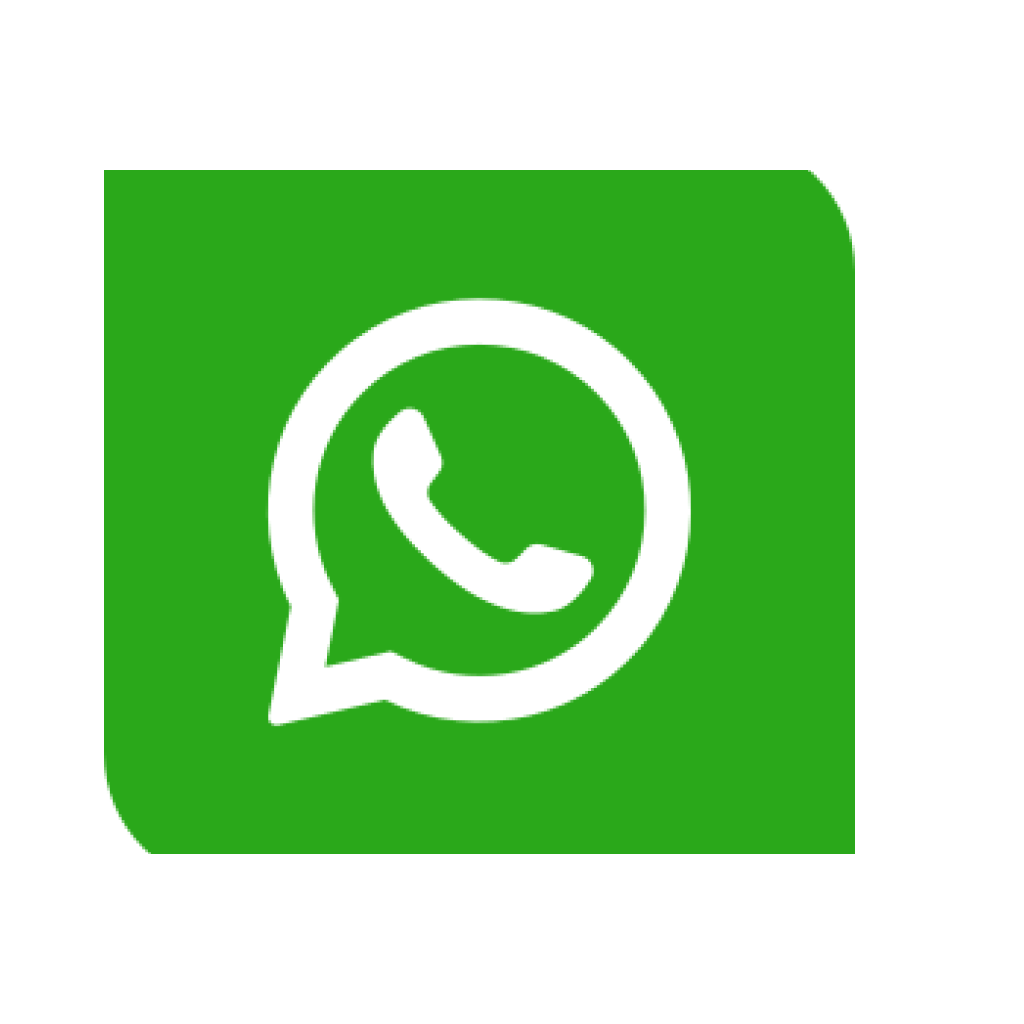
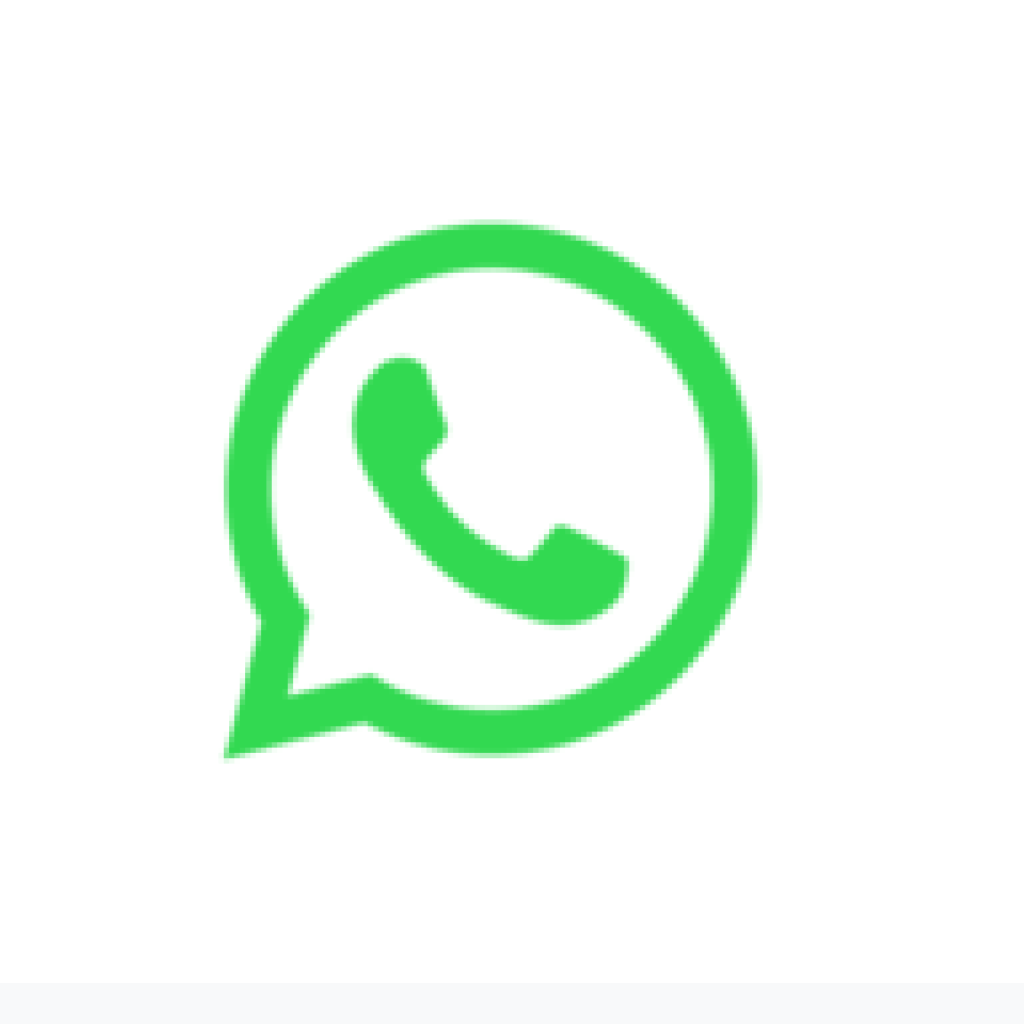
make changes and create imagespath constants and UI

diff --git a/src/app/(auth)/index.jsx b/src/app/(auth)/index.jsx
@@ -1,13 +1,98 @@
-import { View, Text } from 'react-native'
-import React from 'react'
-import { Link } from 'expo-router'
+import { StyleSheet, View, Text, Image, ActivityIndicator } from "react-native";
+import React, { useEffect, useState } from "react";
+import { SafeAreaView } from "react-native-safe-area-context";
+import imagesPath from "../../constants/imagesPath";
+import {  verticalScale, moderateScale } from "react-native-size-matters";
+import { router } from "expo-router";
 
 const Auth = () => {
+  const[isloading  , setIsloading] = useState(false)
+  // now we are making logic that the first it will be displayed for the 2 seconds and then the loading screen will be appear after that  
+  let navigate_to_welcomeScreen =() =>{
+    router.push("/(auth)/terms_agree")
+  }
+  useEffect(()=>{
+    // ab yeh k 2 seconds k baad loading wala screen a jaeyga 
+    setTimeout(() => {
+      setIsloading(true)
+      setTimeout(()=>{
+        navigate_to_welcomeScreen()
+      },3000)
+    }, 2000);
+  })
   return (
-    <View>
-     <Link href={"/login"}>Login</Link>
-    </View>
-  )
-}
+    // Safe Area View Gave a padding from the top to the Bottom
+    <SafeAreaView style={styles.container}>
+      <View style={styles.header}></View>
+      <View style={styles.body}>
+        <Image
+          source={imagesPath.logo}
+          style={styles.image_style}
+          resizeMode="contain"
+        />
+        <Text style={styles.whatsapp_text}>Whatsapp</Text>
+      </View>
+      <View style={styles.footer}>
+        {/* In this we use the loading screen effect for the two seconds:: */}
+        {
+          isloading ? (
+            <>
+            {/* By default React Native Loadding effect jo gol gol ghoomta hai  */}
+            <ActivityIndicator size={moderateScale(48)}  color={"#0ccc83"}/>
+            <Text style={styles.loading_text}>Loading...</Text>
+            </>
+            ) :( <>
+           <Text style={styles.from_text}>From</Text>
+           <Text style={styles.facebook_text}>Facebook</Text>
+          </>
+            )
+        }
+       
+      </View>
+    </SafeAreaView>
+  );
+};
 
-export default Auth
+export default Auth;
+
+const styles = StyleSheet.create({
+  container: {
+    flex: 1,
+    alignItems: "center",
+    justifyContent: "space-between",
+    paddingVertical: verticalScale(50),
+  },
+  header: {},
+  body: {
+    alignItems: "center",
+    gap: verticalScale(10),
+  },
+  footer: {
+    alignItems: "center",
+    height: verticalScale(80),
+    justifyContent:'flex-end'
+  },
+  from_text: {
+    fontSize: moderateScale(12),
+    color: "#867373",
+  },
+  facebook_text: {
+    fontSize: moderateScale(15),
+    color: "black",
+  },
+  image_style: {
+    // this will take the values inside a container item  according to width and  height of the Screen   and if we want the same height and the width we will use the moderate scale value
+    width: verticalScale(70),
+    height: verticalScale(70),
+  },
+  whatsapp_text: {
+    fontSize: moderateScale(35),
+    color: "black",
+    fontWeight: "bold",
+  },
+  loading_text:{
+    color: "#00A884",
+    fontSize: moderateScale(20),
+    marginTop: verticalScale(15)
+  }
+});

diff --git a/src/app/_layout.jsx b/src/app/_layout.jsx
@@ -1,13 +1,13 @@
 import {Redirect, Stack} from "expo-router"
-import * as  SplashScreen from "expo-splash-screen"
+import * as SplashScreen from 'expo-splash-screen';
 import { useEffect, useState } from "react"
 //  Below line means that whenever we do not hide the Splash Screen It Will be Shown 
-SplashScreen.preventAutoHideAsync()
+SplashScreen.preventAutoHideAsync();
 const RootNavigation = () => {
 const[islogin , setIsLogin] =useState(false)
     useEffect(()=>{
         setTimeout(()=>{
-SplashScreen.hideAsync()
+            SplashScreen.hideAsync();
         },2000)
     },[])
   return (

diff --git a/src/constants/imagesPath.js b/src/constants/imagesPath.js
@@ -1,0 +1,3 @@
+export default{
+logo : require('@/src/assets/images/logo.png'),
+}

diff --git a/README.md b/README.md
@@ -29,6 +29,7 @@ When The auth stack complete then theses Pages doesnot load again and make the a
 
 
 We add Some Pages into our auth Stack  and next we will develop them 
+Then We make our front page UI and Also learn how to define the constants and we use them in a project  
 
 
 
